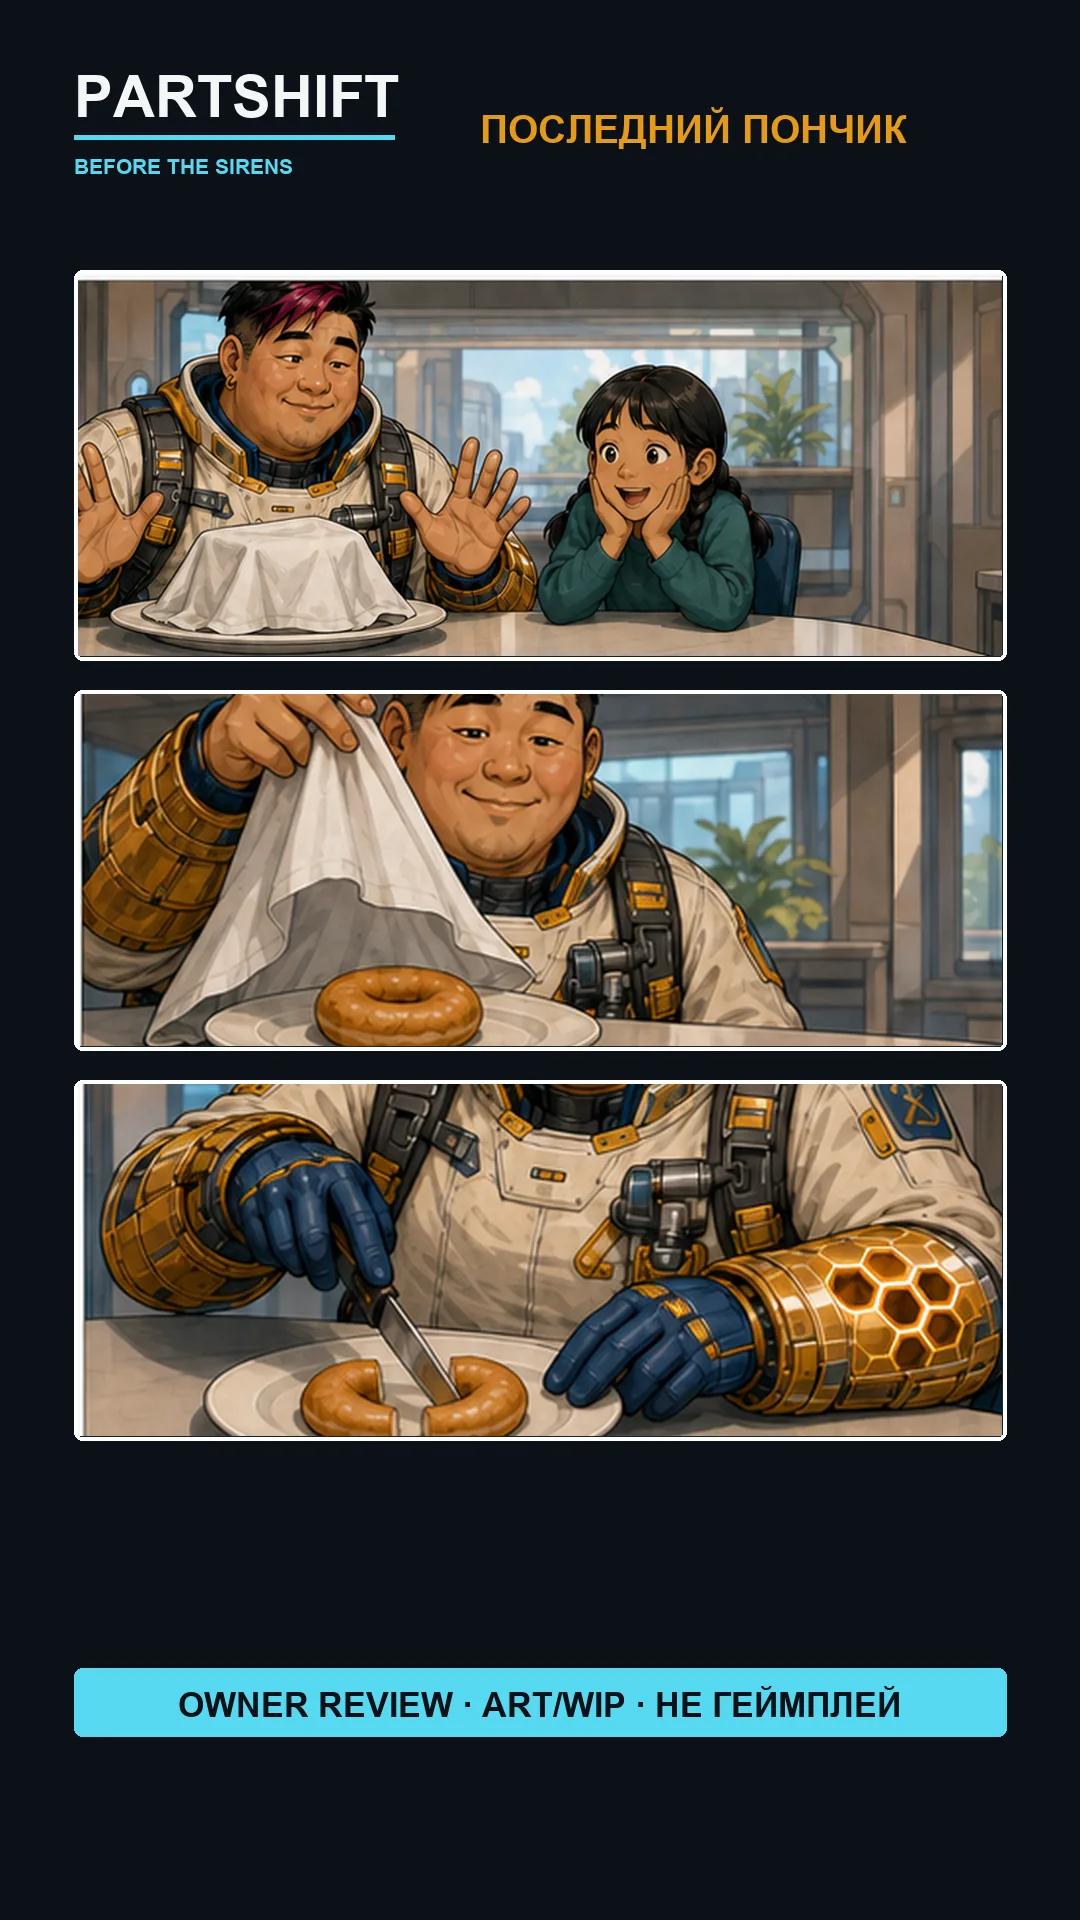
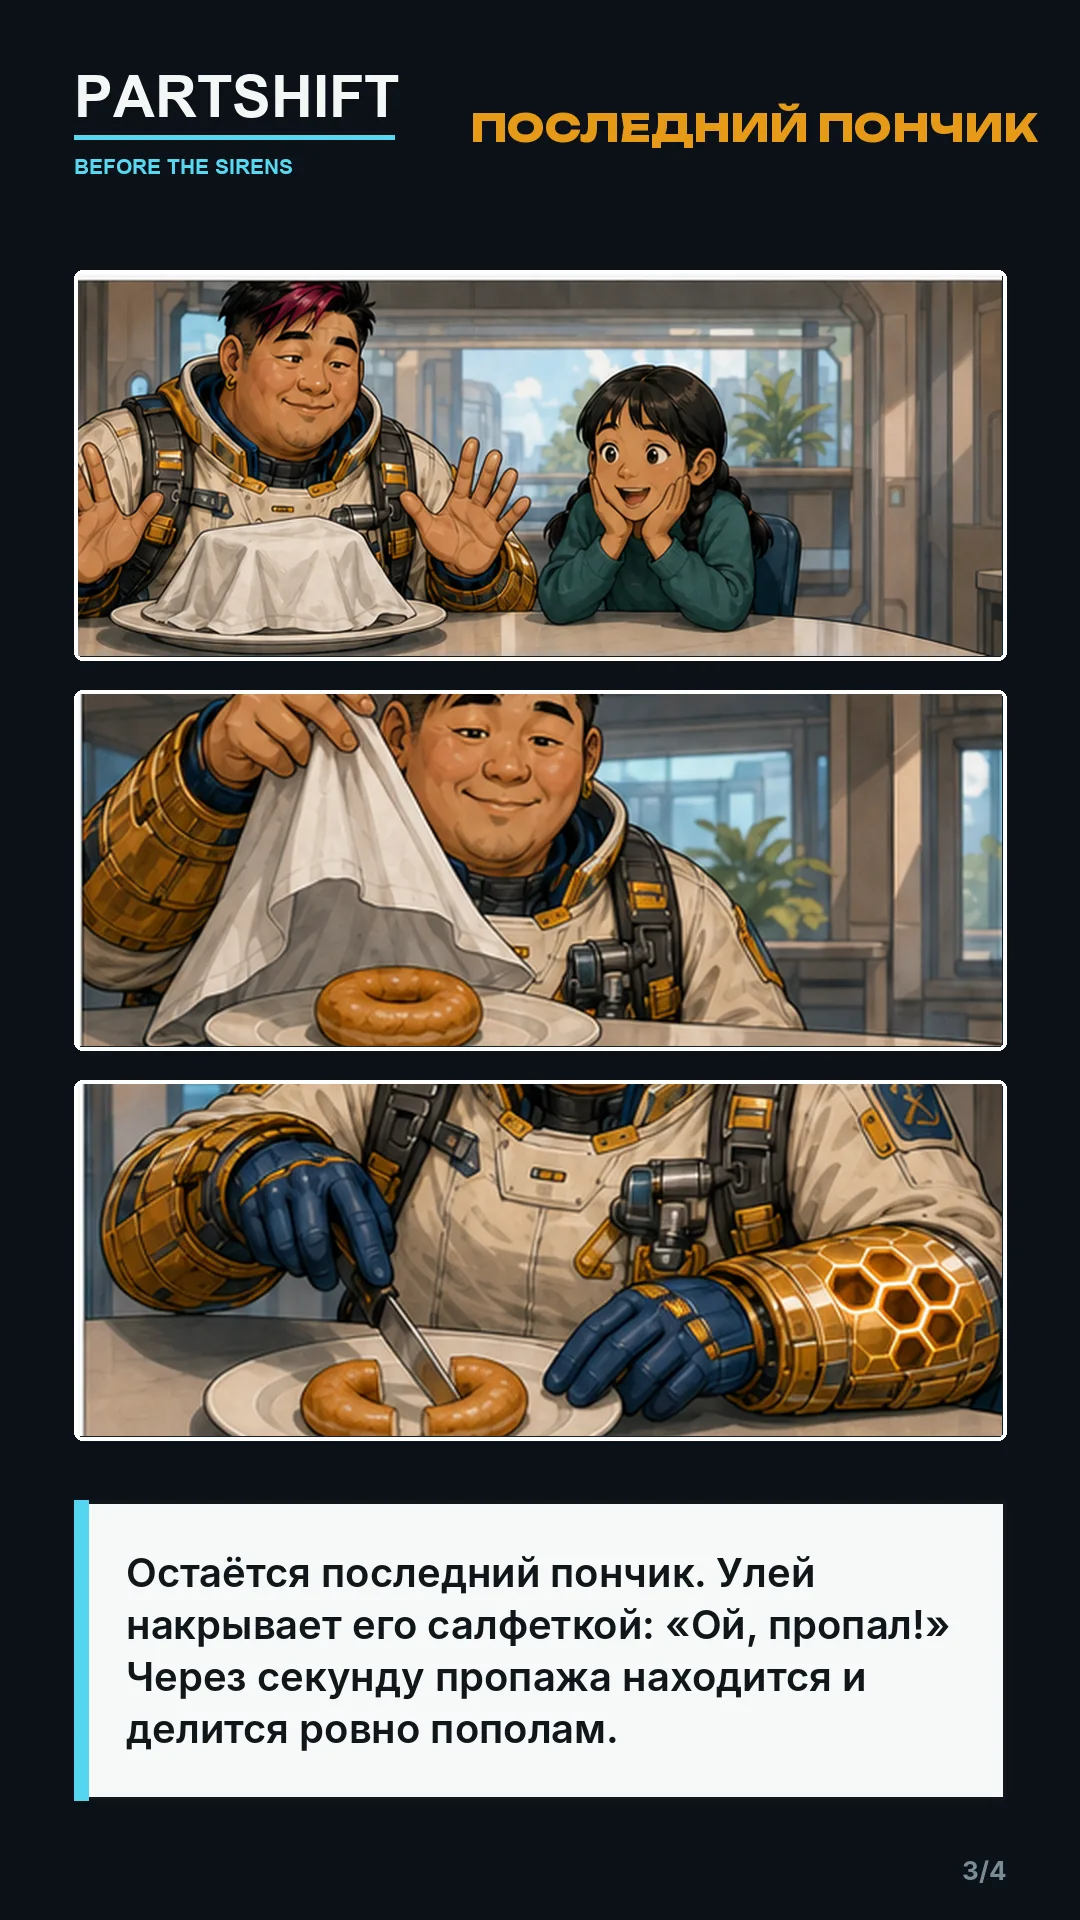
Comics in both languages: EN prologue lettering, captioned «Последний пончик»
The prologue page gets English lettering. «Последний пончик» was a silent RU-titled page set with
an «OWNER REVIEW · ART/WIP» bar: each page now has a narration caption from the owner story and
the title in RU and EN, and the cover has a tagline instead of the review bar.

Claude-Session: https://claude.ai/code/session_01Edi4FGKeDc1p6trmCJcoeg

Changed region(s): [[0.0611, 0.7812, 0.9472, 0.9375], [0.4278, 0.0312, 0.9778, 0.0938], [0.8861, 0.9688, 0.9167, 1.0]]

diff --git a/site/content.ts b/site/content.ts
@@ -365,7 +365,7 @@ export const COMICS: Comic[] = [
     series: { ru: 'Пролог', en: 'Prologue' },
     cast: { ru: 'Линейщик, мальчик-фанат', en: 'Lineman, a young fan' },
     blurb: { ru: 'Мальчик вызывает службу спасения ради автографа. Город любит своих героев, а внизу HeroOut уже выращивает им врагов.', en: 'A boy calls the rescue service just to get an autograph. The city loves its heroes, while deep below HeroOut is already growing their enemies.' },
-    pages: { ru: ['comics/prologue-ru.webp'], en: ['comics/prologue-ru.webp'] },
+    pages: { ru: ['comics/prologue-ru.webp'], en: ['comics/prologue-en.webp'] },
   },
   {
     id: 'nothing-happened',
@@ -407,7 +407,7 @@ export const COMICS: Comic[] = [
     blurb: { ru: 'Коробка домашних пончиков на смене, идеально чистый пульт и честный дележ пополам.', en: 'A box of homemade donuts on shift, a spotless console and a perfectly fair split.' },
     pages: {
       ru: [1, 2, 3, 4].map((k) => `comics/last-donut-${k}-ru.webp`),
-      en: [1, 2, 3, 4].map((k) => `comics/last-donut-${k}-ru.webp`),
+      en: [1, 2, 3, 4].map((k) => `comics/last-donut-${k}-en.webp`),
     },
   },
 ];

diff --git a/site/main.ts b/site/main.ts
@@ -432,7 +432,7 @@ function villainsView(): string {
 }
 
 function comicCard(c: (typeof COMICS)[number]): string {
-  const cover = c.id === 'last-donut' ? 'comics/last-donut-cover.webp' : c.pages[lang][0];
+  const cover = c.id === 'last-donut' ? `comics/last-donut-cover-${lang}.webp` : c.pages[lang][0];
   return `<a class="comic-card slab" href="#comic-${c.id}">
     <div class="cover"><img src="${img(cover)}" alt="" loading="lazy"></div>
     <div class="meta"><span class="caps">${tr(c.series)} // ${tr(c.cast)}</span><h3>${tr(c.title)}</h3><p>${tr(c.blurb)}</p></div>
@@ -456,7 +456,7 @@ function comicsView(): string {
 function comicView(id: string): string {
   const c = COMICS.find((x) => x.id === id);
   if (!c) return comicsView();
-  const ruOnly = c.pages.en[0] === c.pages.ru[0] && lang === 'en';
+  const ruOnly = lang === 'en' && c.pages.en.some((p) => p.includes('-ru.'));
   const i = COMICS.indexOf(c);
   const next = COMICS[(i + 1) % COMICS.length];
   return `<section class="section"><div class="wrap">

diff --git a/site/tools/build_assets.py b/site/tools/build_assets.py
@@ -81,9 +81,6 @@ def main():
 
     # Comics: full 1080 width so the lettering stays readable.
     webp(f'{MEDIA}/09_КОМИКС_ПРОЛОГ.png', 'comics/prologue-ru', 1024)
-    for k in range(1, 5):
-        webp(f'{DONUT}/comic_01_last_donut_ru_story_0{k}_b03.png', f'comics/last-donut-{k}-ru', 1080)
-    webp(f'{DONUT}/comic_01_last_donut_ru_4x5_b03.png', 'comics/last-donut-cover', 1080)
     for slug, src in [('nothing-happened', 'nothing-happened-today-beach-news'), ('pressure-test', 'pressure-test-review-v1'), ('two-kinds', 'two-kinds-of-power-hive-smoke-match')]:
         for lang in ('ru', 'en'):
             webp(f'{REVIEW}/{src}-{lang}.png', f'comics/{slug}-{lang}', 1080)
@@ -122,6 +119,12 @@ def main():
     webp(f'{INC}/site_support_jar.png', 'support-jar', 900)
     B04 = f'{PF}/art/batch04_final/generated'
     webp(f'{B04}/202_comic_11_control_warehouse.png', 'control-warehouse', 1600)
+    # EN lettering for the prologue and captions for «Последний пончик» (RU/EN), set in the site thread.
+    webp(f'{INC}/site_comic_prologue-en.png', 'comics/prologue-en', 1024)
+    for lang in ('ru', 'en'):
+        for k in range(1, 5):
+            webp(f'{INC}/site_comic_last_donut_{k}-{lang}.png', f'comics/last-donut-{k}-{lang}', 1080)
+        webp(f'{INC}/site_comic_last_donut_cover-{lang}.png', f'comics/last-donut-cover-{lang}', 1080)
     # Cover of «Как всё началось», the intro comic the site plays (site/intro.ts).
     webp(f'{PF}/comic/assets/panels/city_sunset.jpg', 'comics/intro-cover', 900, (0.2, 0, 0.8, 1))
     for lang in ('ru', 'en'):
